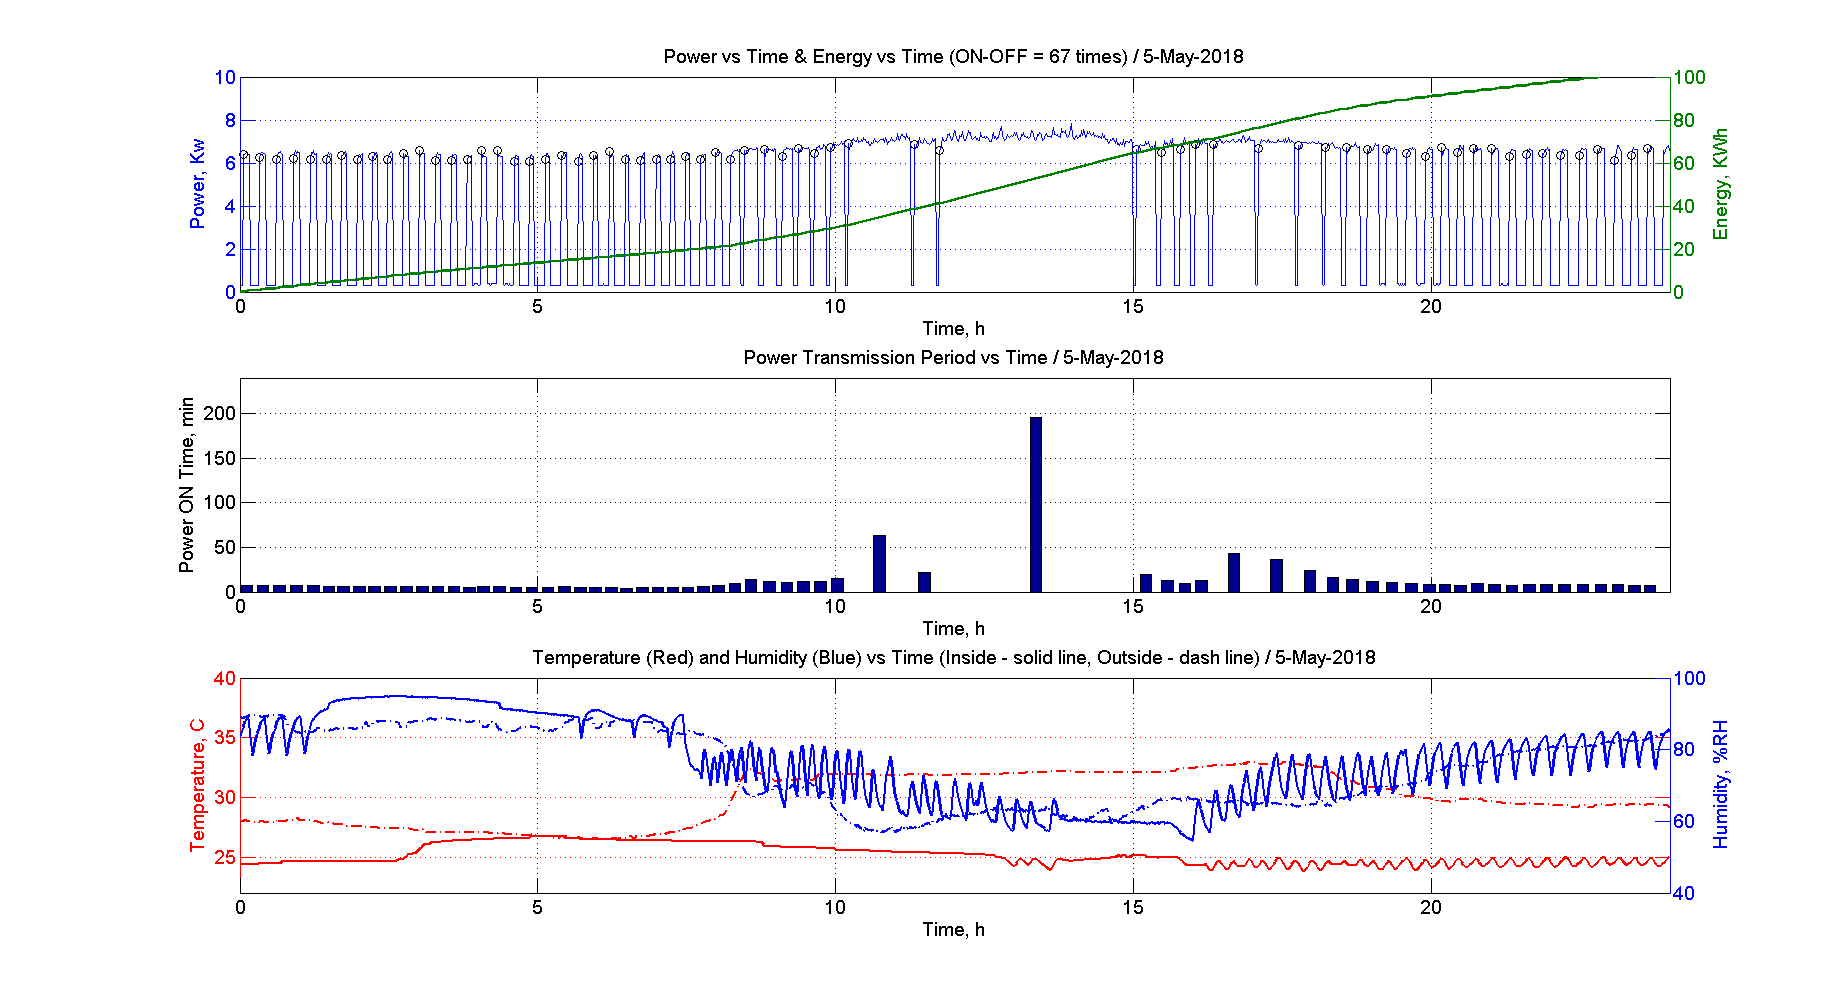
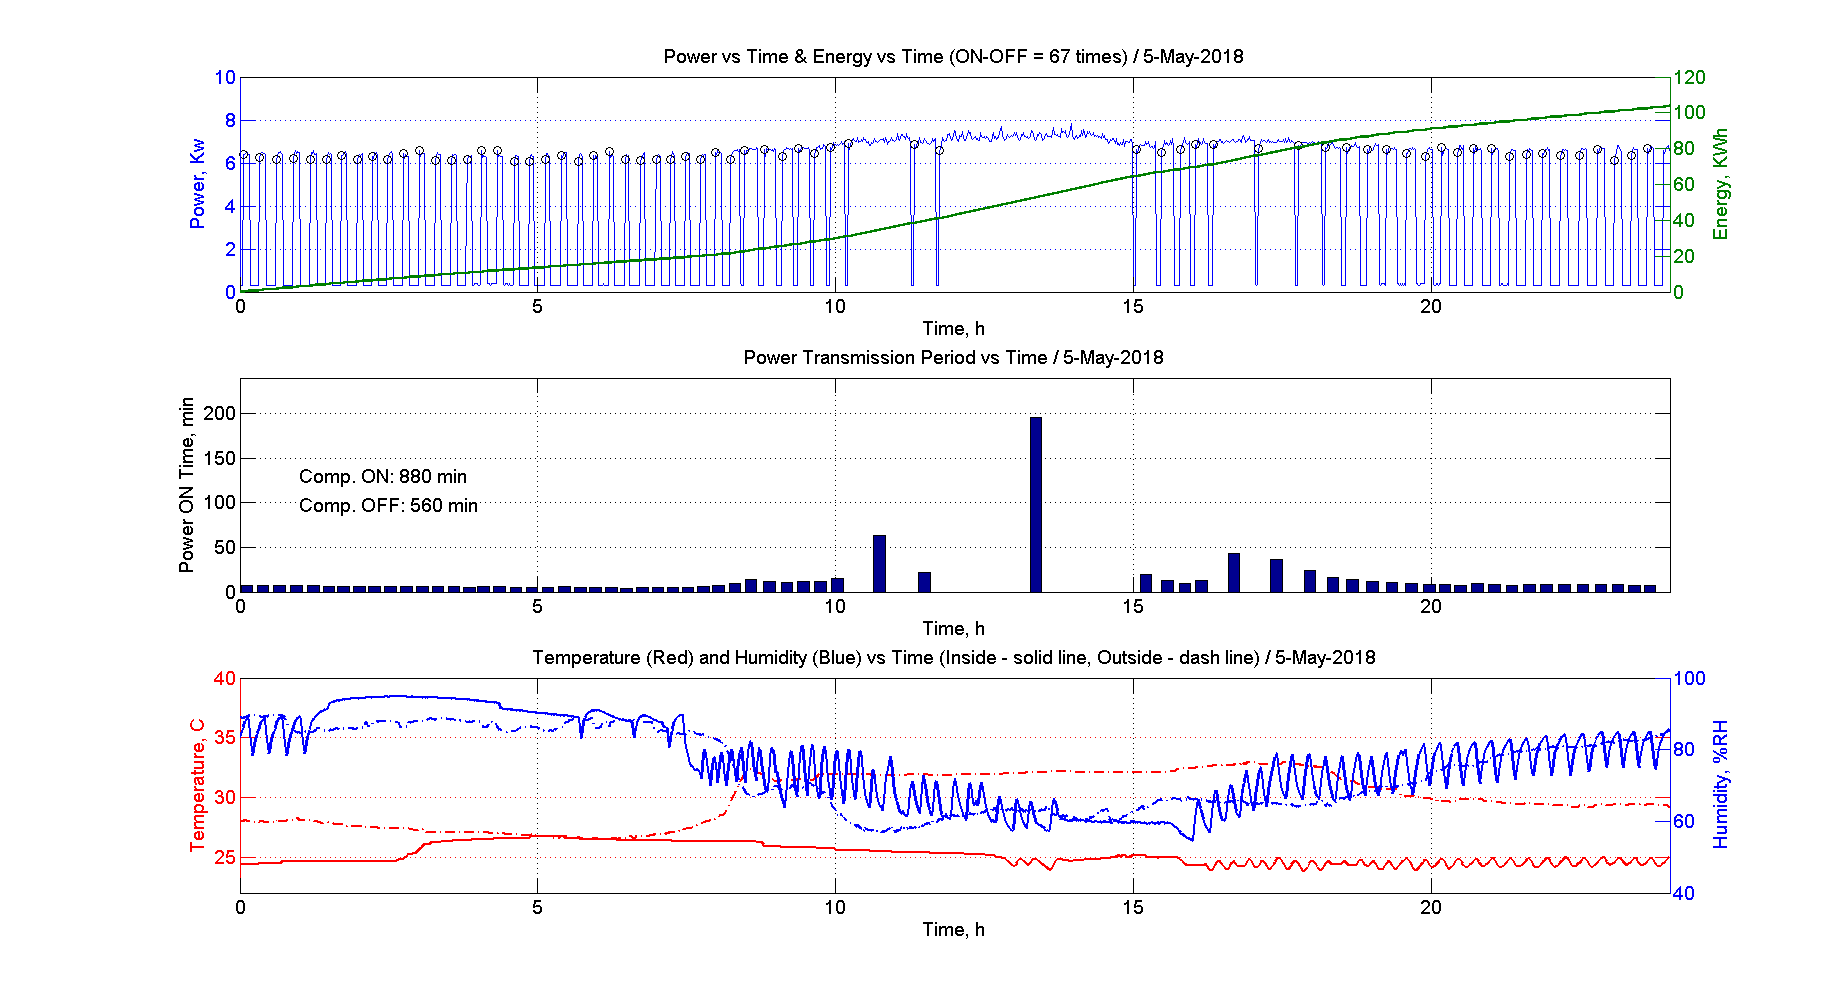
Modify on 03-04-05

diff --git a/results_04_May/show_graph.m b/results_04_May/show_graph.m
@@ -52,6 +52,8 @@ grid on
 title(['Power Transmission Period vs Time / ' datetext])
 xlabel('Time, h')
 ylabel('Power ON Time, min')
+text(1,onpk/2+10,['Comp. ON: ' num2str(round(sum(w*60))+1) ' min'],'fontsize',14,'background','white')
+text(1,onpk/2,['Comp. OFF: ' num2str(round((t(end)-t(1))*60 - sum(w*60))) ' min'],'fontsize',14,'background','white')
 
 %% Temperature & Humidity Inside
 subplot(313)

diff --git a/results_05_May/show_graph.m b/results_05_May/show_graph.m
@@ -52,6 +52,8 @@ grid on
 title(['Power Transmission Period vs Time / ' datetext])
 xlabel('Time, h')
 ylabel('Power ON Time, min')
+text(1,onpk/2+10,['Comp. ON: ' num2str(round(sum(w*60))+1) ' min'],'fontsize',14,'background','white')
+text(1,onpk/2,['Comp. OFF: ' num2str(round((t(end)-t(1))*60 - sum(w*60))) ' min'],'fontsize',14,'background','white')
 
 %% Temperature & Humidity Inside
 subplot(313)
